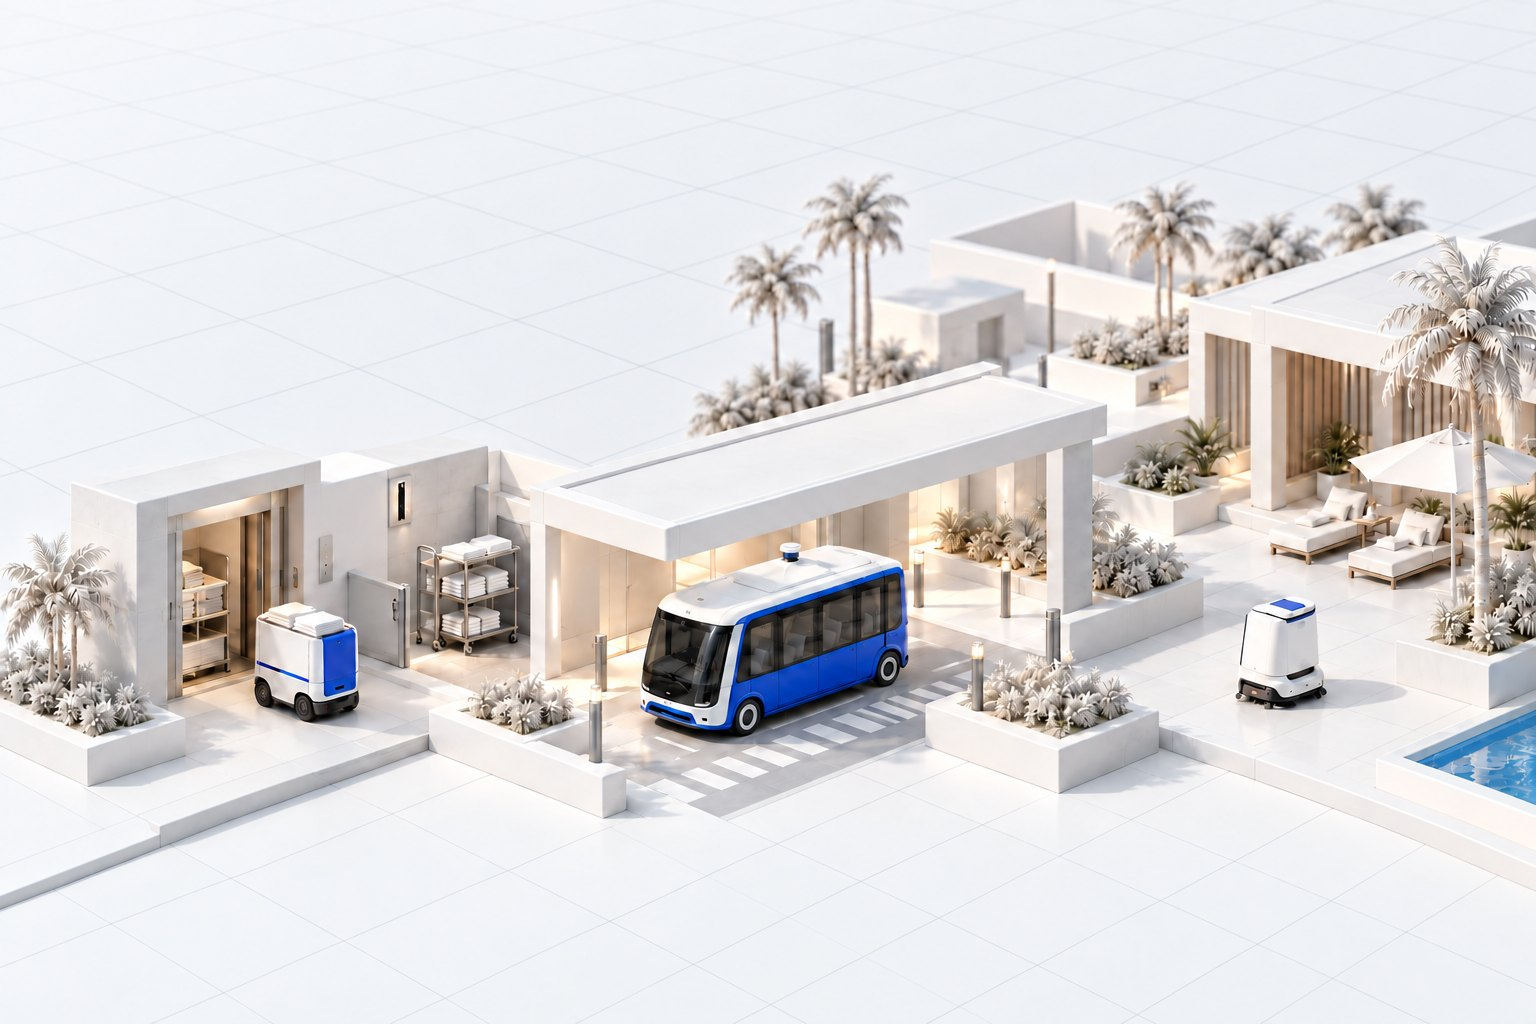
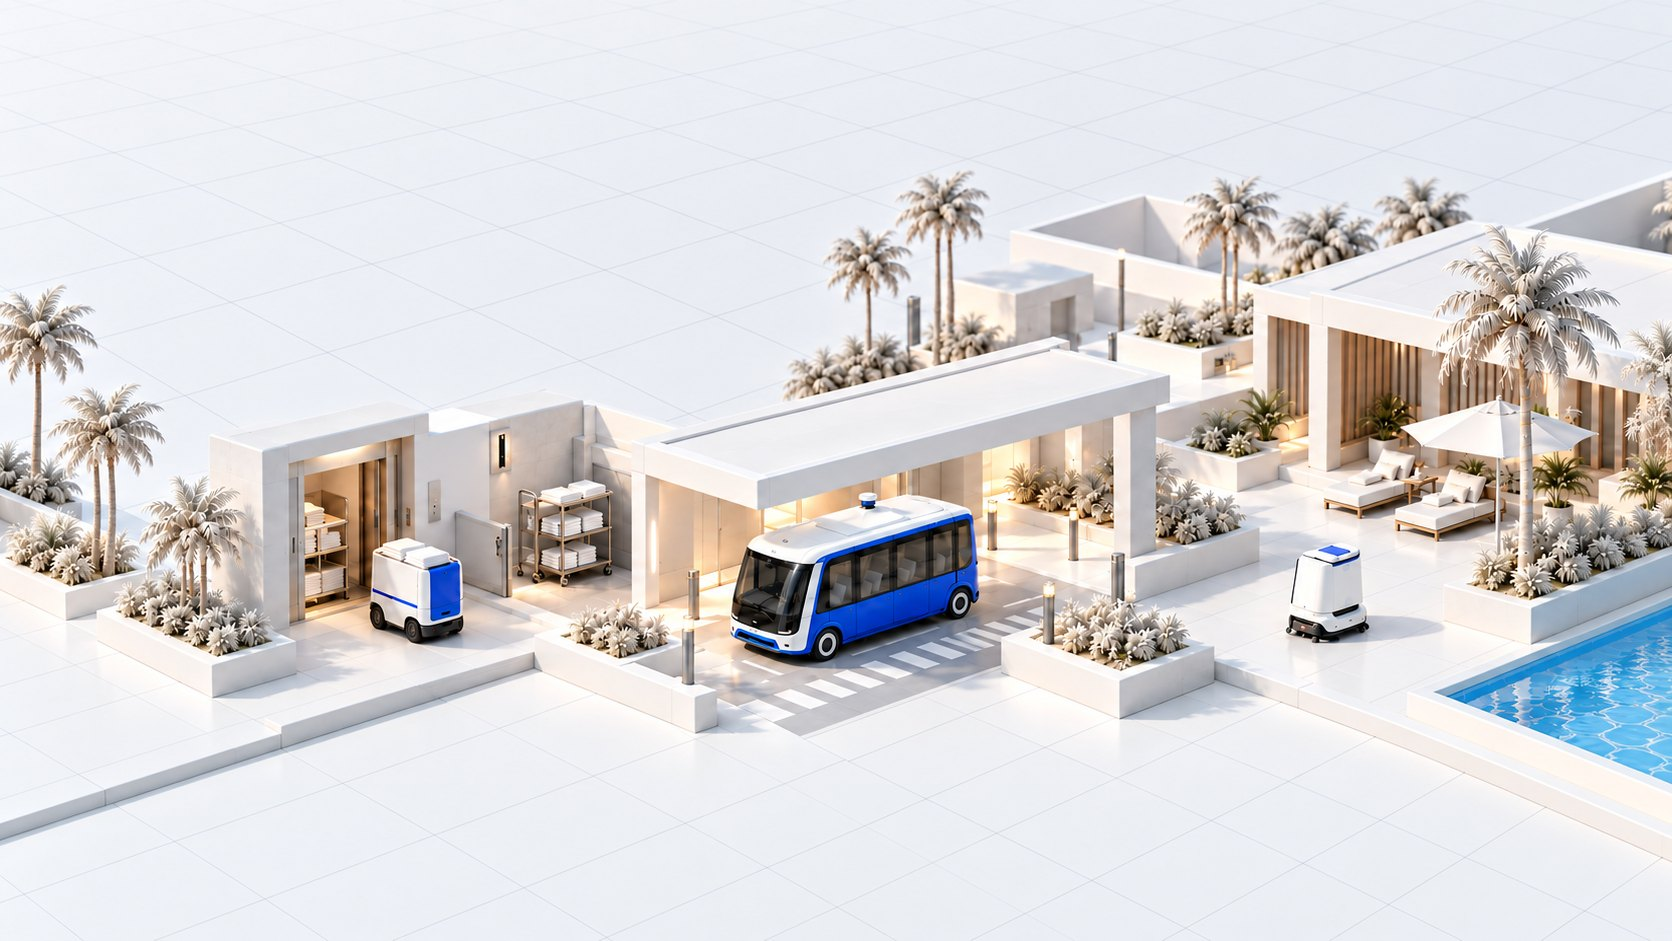
home: v4.2 hero — new founder's render, headline «Physical AI for resort operations.»
- hero.jpg replaced by the founder's wider render (1672×941, JPEG q86)
- eyebrow label removed; H1 is now «Physical AI for resort operations.» on two lines
- H1 size clamp(40px, 4.5vw, 66px) desktop / clamp(34px, 9.6vw, 44px) mobile
- mobile picture strip padding 62vw → 54vw (new image aspect)

diff --git a/home/index.html b/home/index.html
@@ -26,9 +26,7 @@ body.site.home .bar a.req { font: 600 13.5px var(--body); color: #fff; backgroun
 body.site.home .bar a.req:hover { background: #1B47C9; }
 body.site.home .hero > .wrap { width: 100%; }
 body.site.home .hero .copy { display: flex; flex-direction: column; align-items: flex-start; padding: clamp(20px, 4.5vh, 48px) 16px 48px; }
-body.site.home .hero .eyebrow { display: flex; align-items: center; gap: 10px; font: 600 12.5px/1 var(--body); letter-spacing: .16em; text-transform: uppercase; color: var(--accent); margin: 0 0 20px; }
-body.site.home .hero .eyebrow::before { content: ""; width: 22px; height: 2px; background: var(--accent); }
-body.site.home .hero h1 { font-family: "Inter Tight", var(--body); font-weight: 800; font-size: clamp(44px, 5.2vw, 76px); line-height: 0.98; letter-spacing: -0.035em; color: var(--navy); margin: 0 0 22px; }
+body.site.home .hero h1 { font-family: "Inter Tight", var(--body); font-weight: 800; font-size: clamp(40px, 4.5vw, 66px); line-height: 1.0; letter-spacing: -0.035em; color: var(--navy); margin: 0 0 22px; }
 body.site.home .hero p { font-size: clamp(16px, 1.3vw, 19px); color: var(--text); max-width: 58ch; margin: 0 0 30px; line-height: 1.45; }
 body.site.home .hero .btn.primary { align-self: flex-start; }
 body.site.home .btn.primary { font-size: 14.5px; padding: 12px 22px; border-radius: 10px; }
@@ -118,9 +116,9 @@ body.site.home footer a:hover { color: var(--accent); }
 @media (max-width: 900px) { .home .pf { grid-template-columns: 1fr 1fr; } .home .pf .problem { grid-column: 1 / -1; margin-bottom: 24px; } }
 @media (max-width: 720px) {
   body.site.home section { padding: 52px 0; }
-  body.site.home .hero { min-height: 0; background-size: 100% auto; background-position: center bottom; padding-bottom: 62vw; }
+  body.site.home .hero { min-height: 0; background-size: 100% auto; background-position: center bottom; padding-bottom: 54vw; }
   body.site.home .hero .copy { padding: 20px 16px 24px; }
-  body.site.home .hero h1 { font-size: clamp(40px, 11.5vw, 48px); }
+  body.site.home .hero h1 { font-size: clamp(34px, 9.6vw, 44px); }
   body.site.home .pf { grid-template-columns: 1fr; gap: 0; }
   body.site.home .pf .fleet-note { grid-column: auto; }
   body.site.home .fleet + .fleet { border-top: 0; }
@@ -133,8 +131,7 @@ body.site.home footer a:hover { color: var(--accent); }
 <header class="hero">
   <div class="wrap bar"><a class="brand" href="/home/">RubiqOS</a><a class="req" href="#demo">Request a demo</a></div>
   <div class="wrap copy">
-    <div class="eyebrow">Physical AI for resort operations</div>
-    <h1>One fleet.<br>Every operator.</h1>
+    <h1>Physical AI for<br>resort operations.</h1>
     <p>Robots handle routine work. Your people focus on guests.</p>
     <a class="btn primary" href="#demo">Request a demo</a>
   </div>
